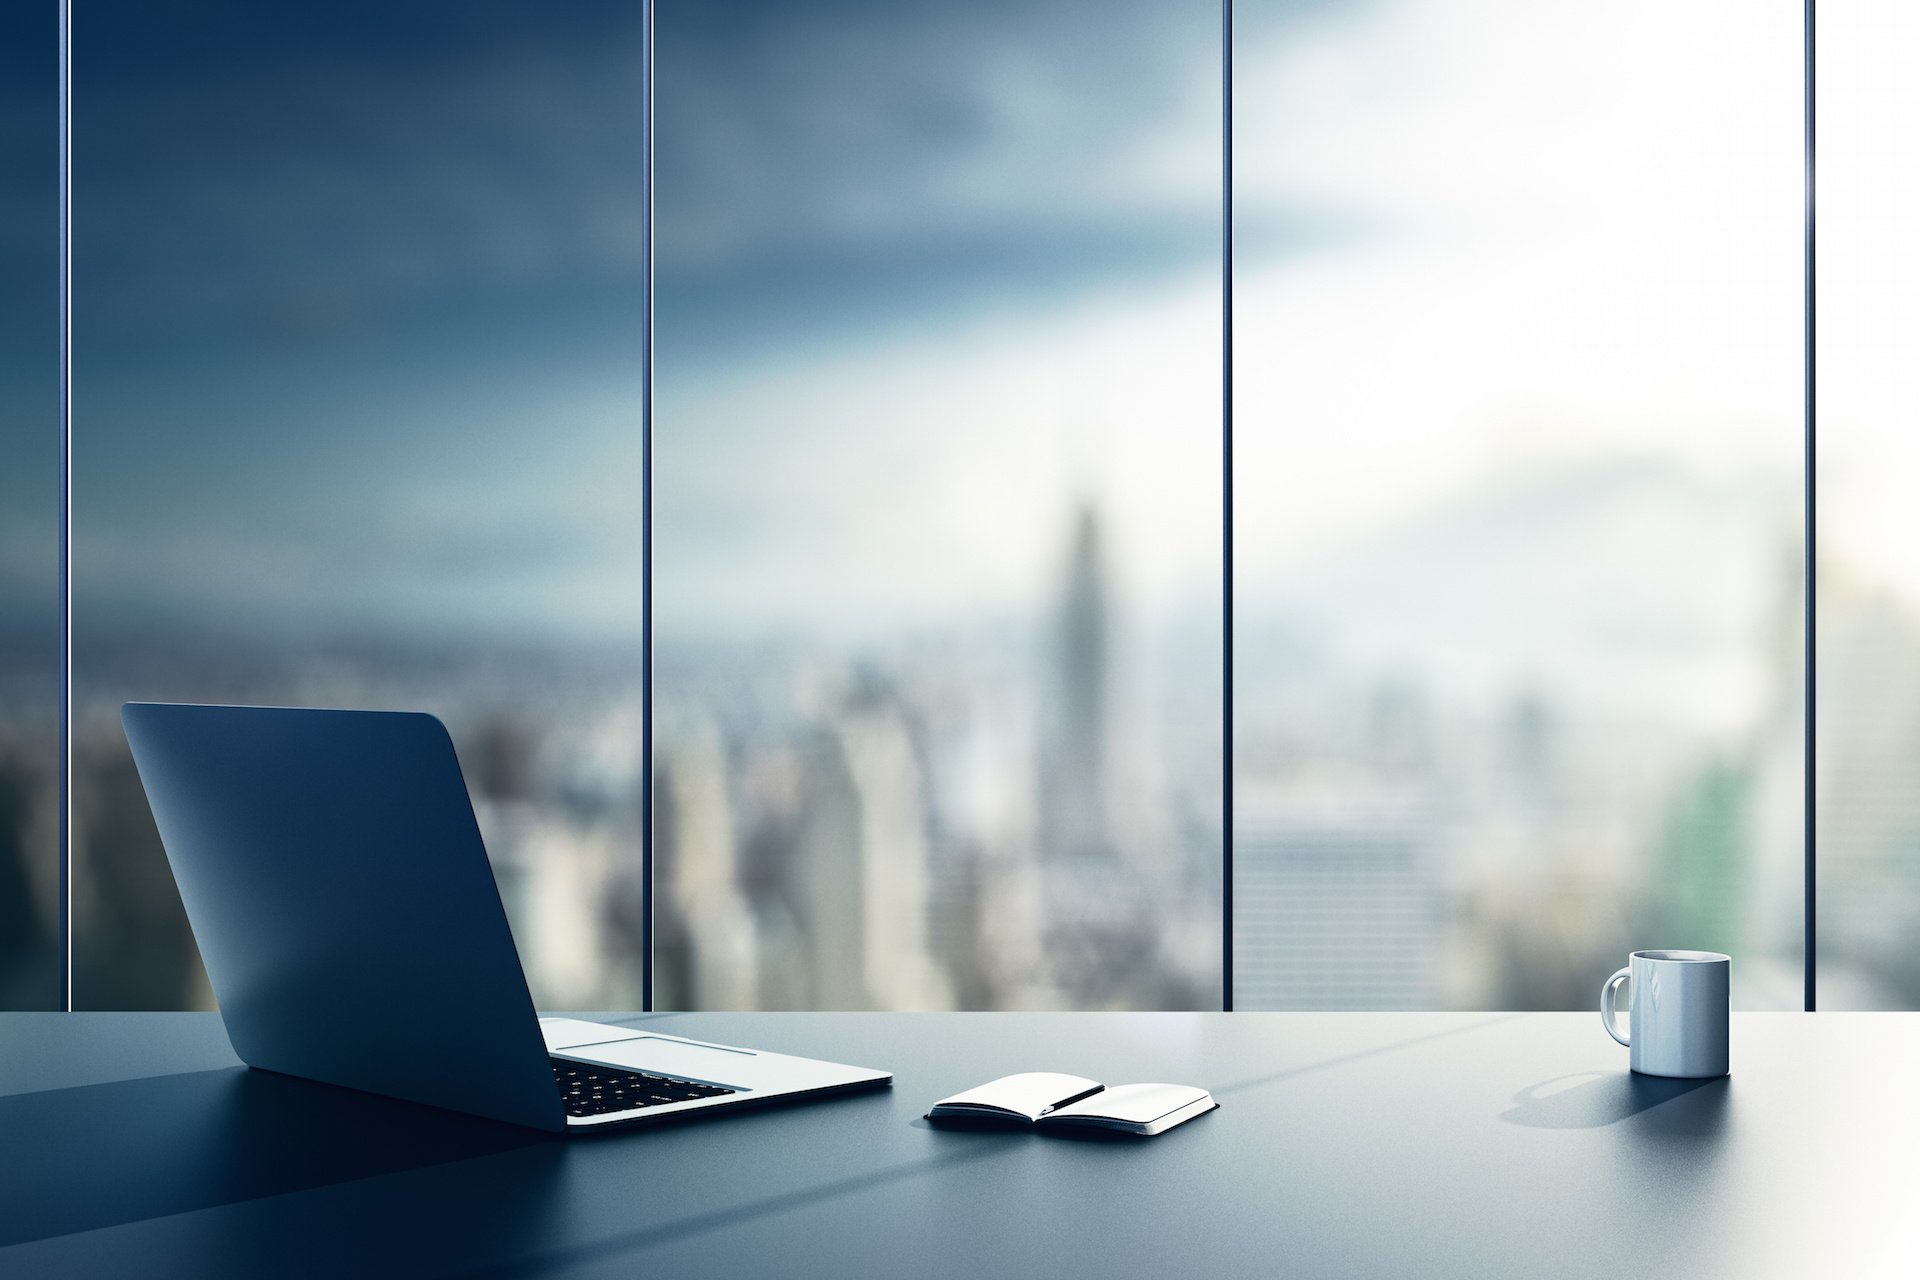
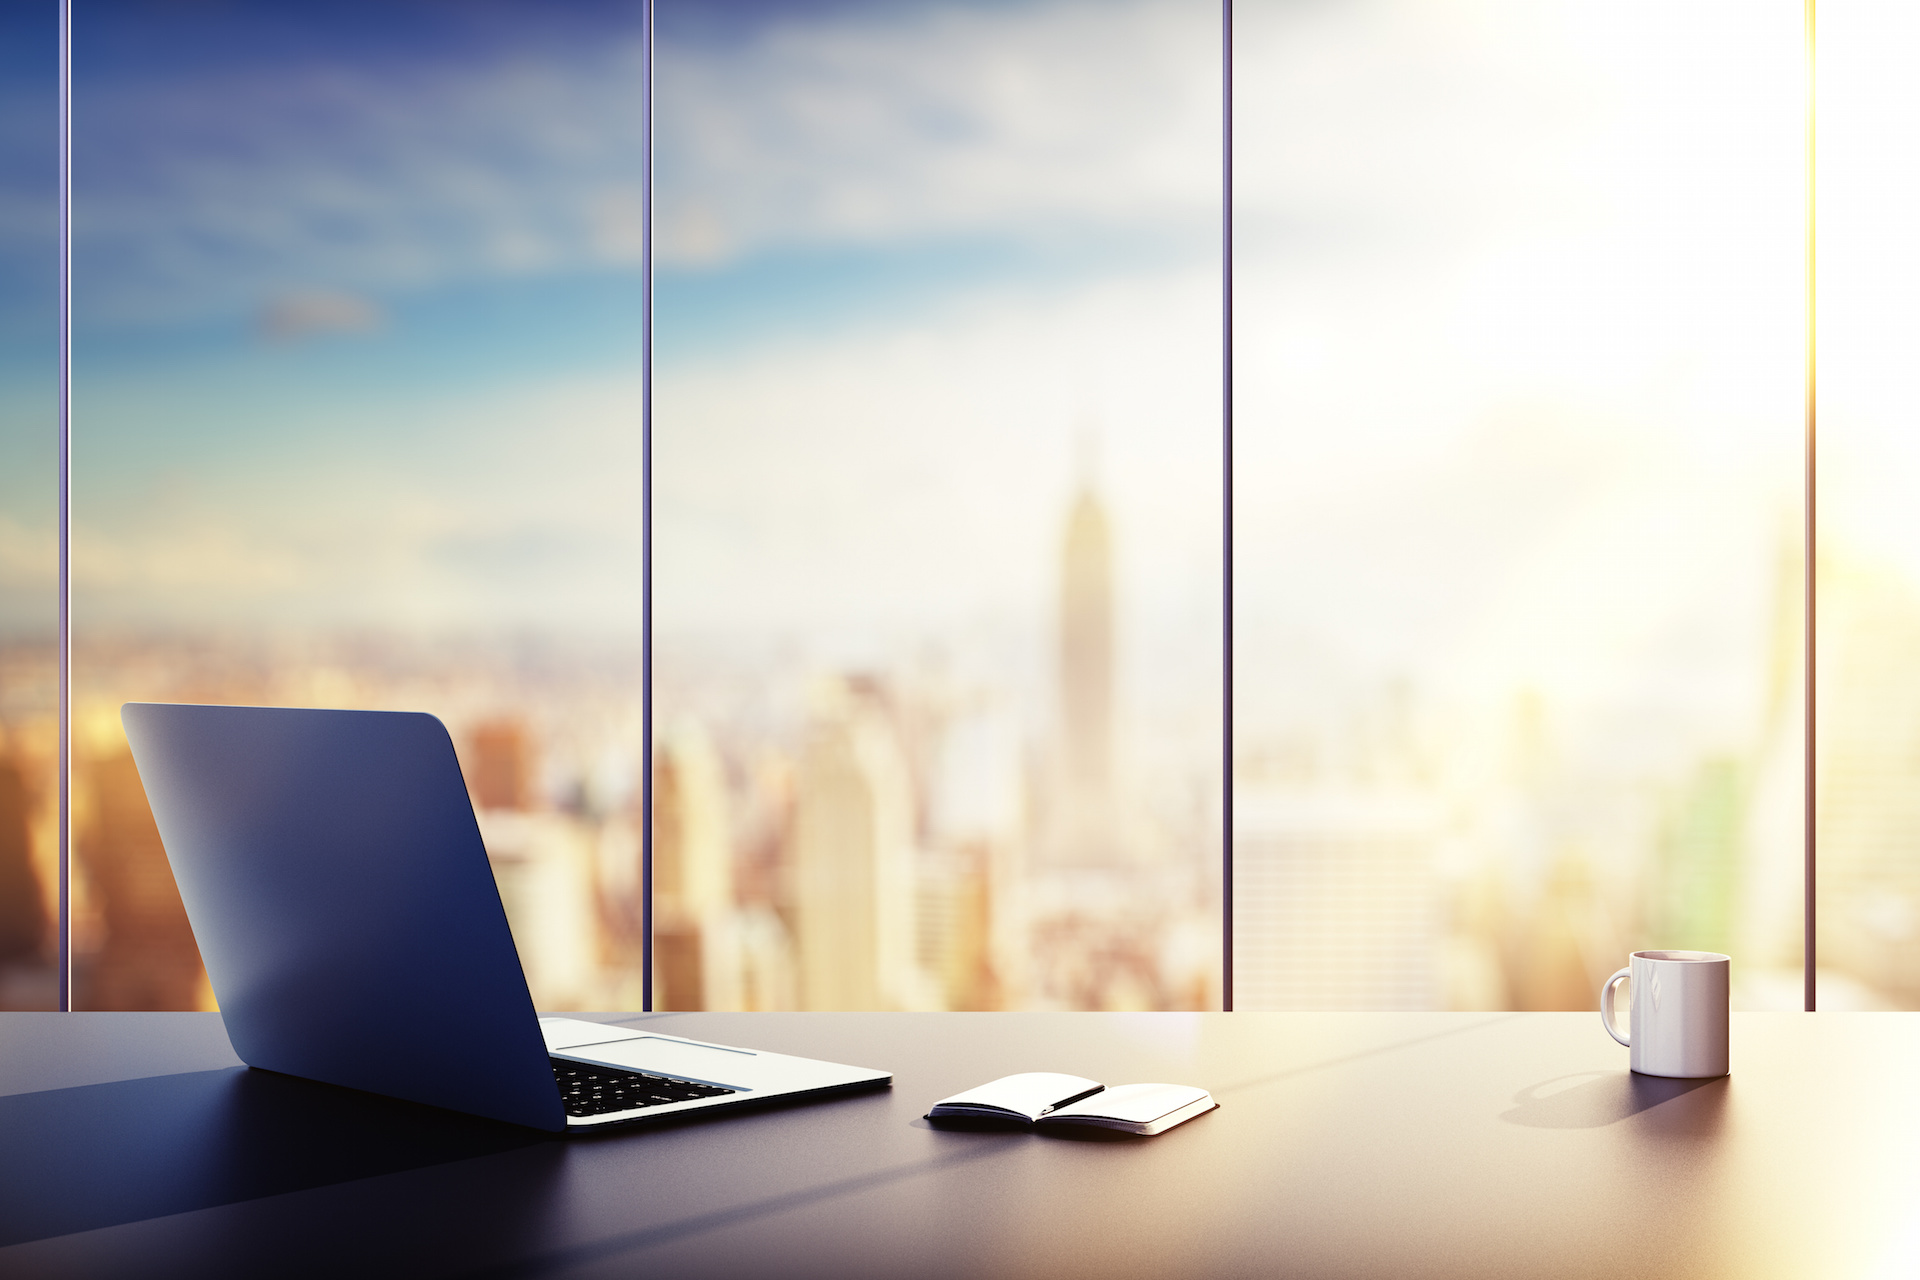
Replaced header image with more funny one.

diff --git a/scss/onestopsource.scss b/scss/onestopsource.scss
@@ -89,7 +89,7 @@ body {
 
     background-image: url('/static/img/placeholder_head.jpg');
     background-position: 40%;
-    opacity: 0.75;
+    opacity: 0.8;
   }
 
   h1 {
